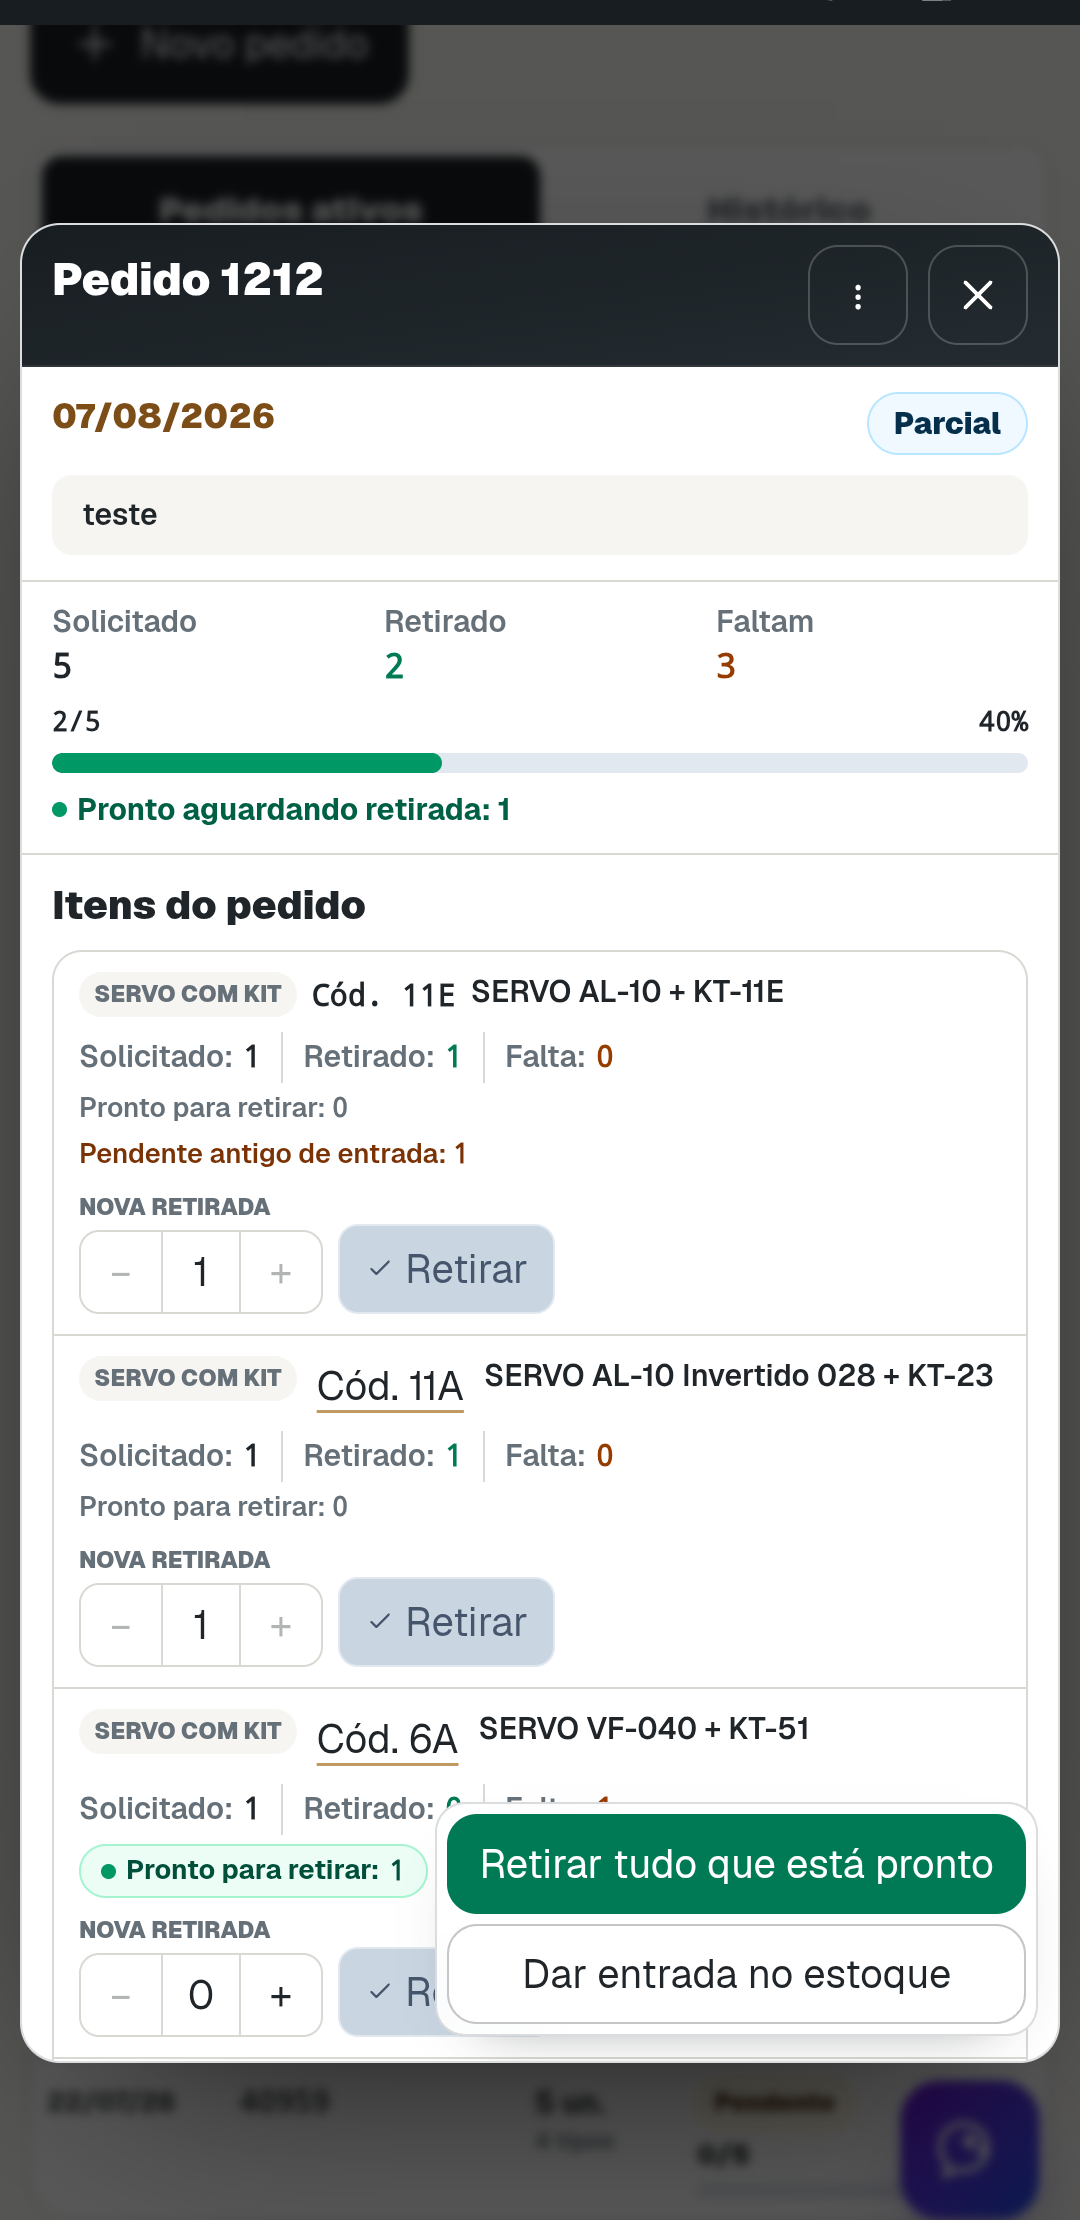
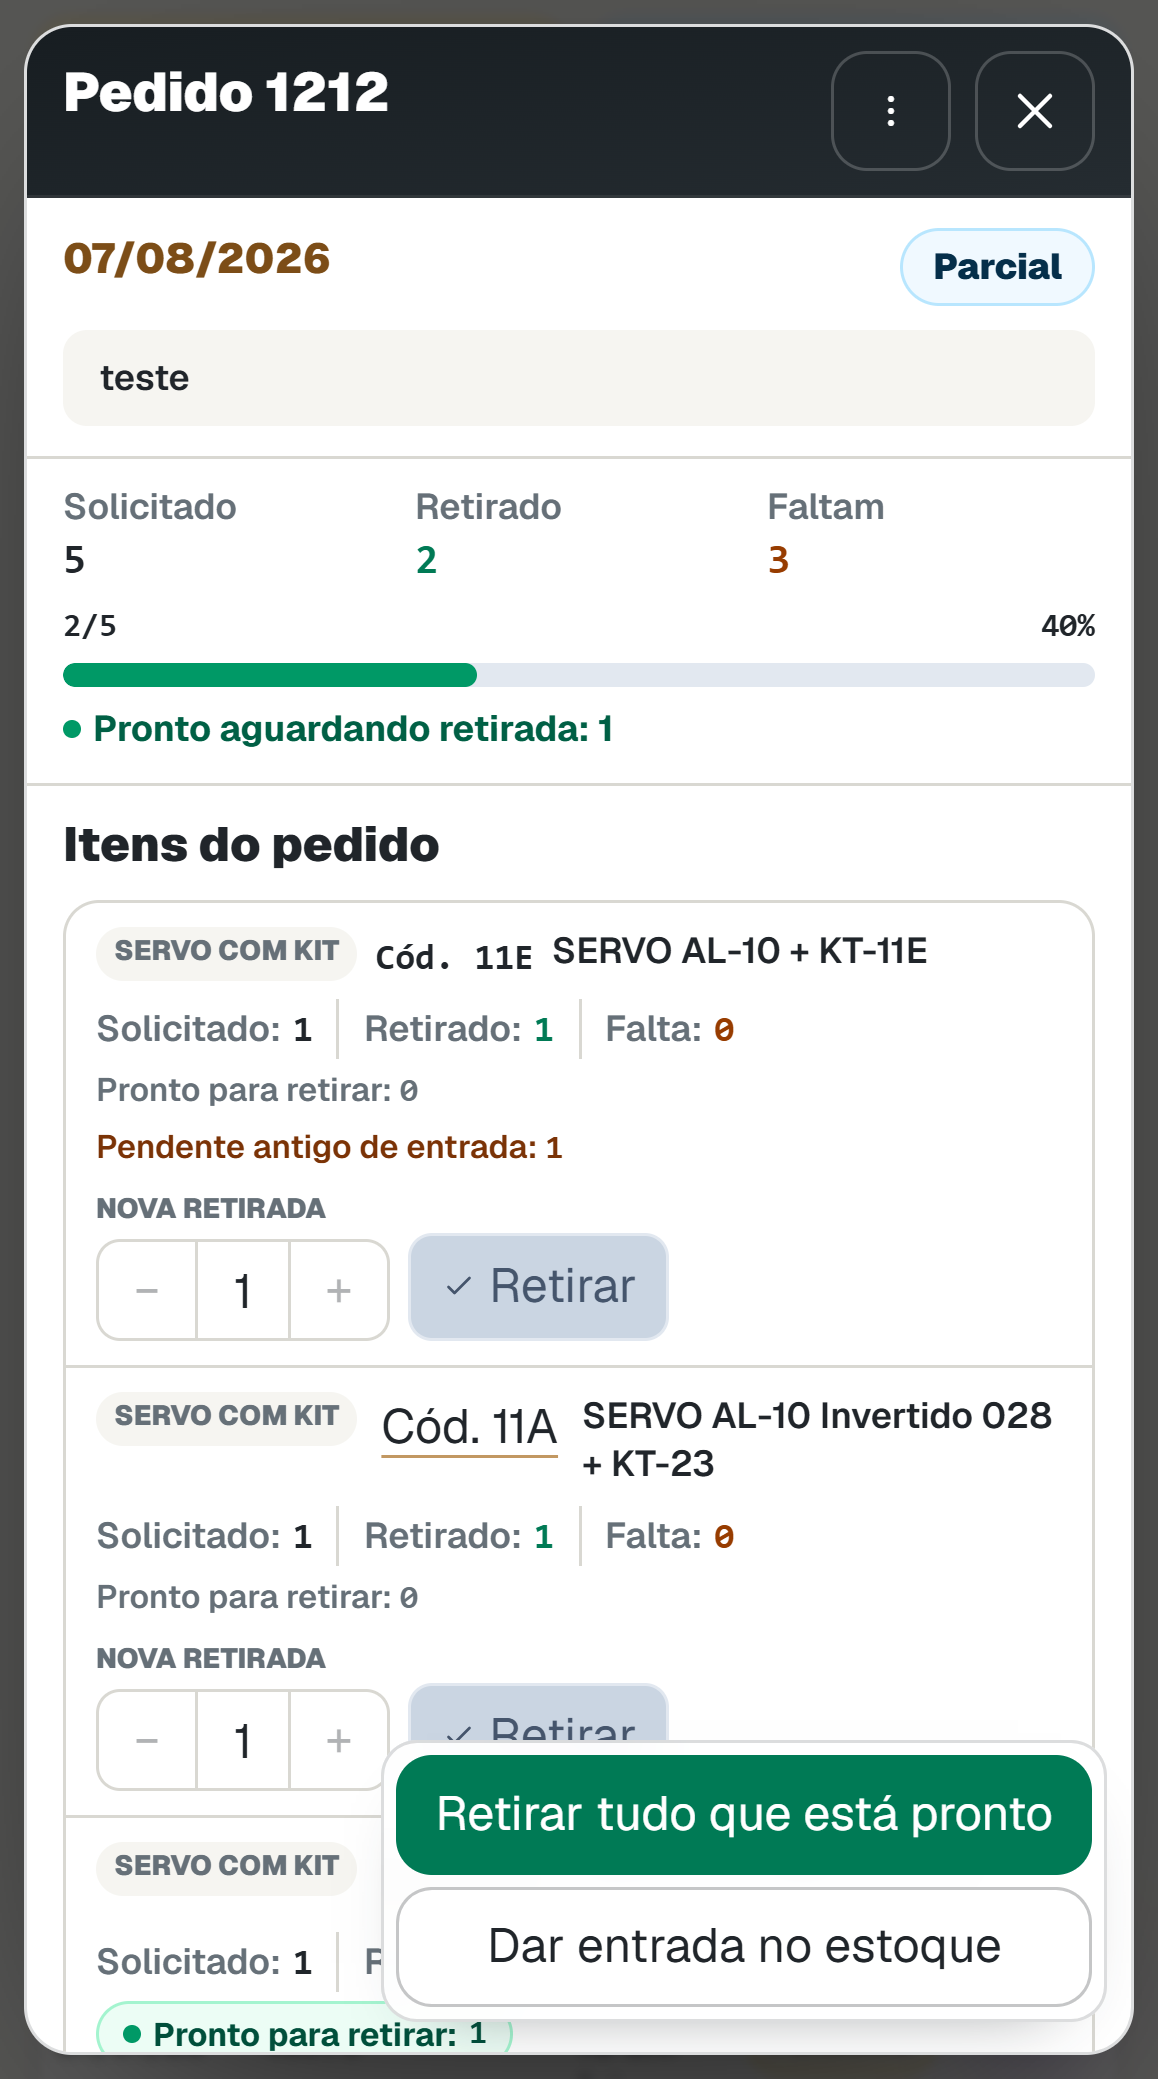
feat: use high resolution presentation screenshots

diff --git a/app/(public)/apresentacao/page.tsx b/app/(public)/apresentacao/page.tsx
@@ -56,16 +56,16 @@ export default function PresentationPage() {
             <DeviceFrameDesktop
               src="/presentation/screenshots/inventory/presentation-hero-inventory-desktop.png"
               alt="Tela de Estoque com resumo, pesquisa e categorias do catálogo"
-              width={1103}
-              height={610}
+              width={4059}
+              height={2079}
               priority
               className="hero-desktop"
             />
             <DeviceFrameMobile
               src="/presentation/screenshots/assistant/presentation-assistant-context-mobile.png"
               alt="Assistente NK respondendo uma consulta contextual sobre o modelo MBF-025"
-              width={1080}
-              height={2220}
+              width={1170}
+              height={2532}
               priority
               className="hero-mobile"
             />
@@ -111,14 +111,14 @@ export default function PresentationPage() {
             <DeviceFrameMobile
               src="/presentation/screenshots/assistant/presentation-assistant-context-mobile.png"
               alt="Conversa contextual da Assistente NK sobre saldo de Servos com kit"
-              width={1080}
-              height={2220}
+              width={1170}
+              height={2532}
             />
             <DeviceFrameMobile
               src="/presentation/screenshots/assistant/presentation-assistant-statistics-mobile.png"
               alt="Assistente NK respondendo uma consulta estatística com ranking oficial"
-              width={1080}
-              height={2220}
+              width={1170}
+              height={2532}
               className="assistant-frame-secondary"
             />
           </div>
@@ -158,14 +158,14 @@ export default function PresentationPage() {
             <DeviceFrameMobile
               src="/presentation/screenshots/photo-order/presentation-photo-order-upload-mobile.png"
               alt="Assistente NK analisando uma foto de Pedido selecionada na galeria"
-              width={1080}
-              height={2220}
+              width={1170}
+              height={2532}
             />
             <DeviceFrameMobile
               src="/presentation/screenshots/photo-order/presentation-photo-order-preview-mobile.png"
               alt="Prévia de Pedido com itens identificados e indicação de revisão"
-              width={1080}
-              height={2220}
+              width={1170}
+              height={2532}
             />
             <DeviceFrameMobile
               src="/presentation/screenshots/photo-order/presentation-photo-order-confirm-mobile.png"
@@ -205,8 +205,8 @@ export default function PresentationPage() {
           <DeviceFrameDesktop
             src="/presentation/screenshots/inventory/presentation-hero-inventory-desktop.png"
             alt="Visão geral do Estoque com totais, pesquisa e categorias físicas"
-            width={1103}
-            height={610}
+            width={4059}
+            height={2079}
           />
         </div>
       </section>
@@ -217,14 +217,22 @@ export default function PresentationPage() {
             <DeviceFrameMobile
               src="/presentation/screenshots/orders/presentation-orders-flow-mobile.png"
               alt="Detalhe mobile de um Pedido com quantidades solicitadas, retiradas e prontas"
-              width={1080}
-              height={2220}
+              width={1158}
+              height={2079}
+              className="orders-detail-mobile"
+            />
+            <DeviceFrameDesktop
+              src="/presentation/screenshots/orders/presentation-order-detail-desktop.png"
+              alt="Detalhe de um Pedido com quantidades solicitadas, retiradas e prontas"
+              width={4059}
+              height={2079}
+              className="orders-detail-desktop"
             />
             <DeviceFrameMobile
               src="/presentation/screenshots/safisa/presentation-safisa-portal-mobile.png"
               alt="Portal do fornecedor mostrando prontidão por item do Pedido"
-              width={1080}
-              height={2220}
+              width={1734}
+              height={3120}
               className="orders-safisa-frame"
             />
           </div>
@@ -258,12 +266,22 @@ export default function PresentationPage() {
               <li>Comparação entre períodos baseada no histórico real.</li>
             </ul>
           </div>
-          <DeviceFrameMobile
-            src="/presentation/screenshots/statistics/presentation-statistics-ranking-mobile.png"
-            alt="Ranking mobile de itens mais movimentados no período"
-            width={1080}
-            height={2220}
-          />
+          <div className="statistics-visuals">
+            <DeviceFrameMobile
+              src="/presentation/screenshots/statistics/presentation-statistics-ranking-mobile.png"
+              alt="Ranking mobile de itens mais movimentados no período"
+              width={1080}
+              height={2220}
+              className="statistics-ranking-mobile"
+            />
+            <DeviceFrameDesktop
+              src="/presentation/screenshots/statistics/presentation-statistics-dashboard-desktop.png"
+              alt="Painel de Estatísticas com resumo e gráficos do período"
+              width={4059}
+              height={2079}
+              className="statistics-dashboard-desktop"
+            />
+          </div>
         </div>
       </section>
 

diff --git a/app/(public)/public-site.css b/app/(public)/public-site.css
@@ -133,8 +133,10 @@
 .orders-visuals { position: relative; min-height: 41rem; }
 .orders-visuals .device-mobile { position: absolute; top: 0; left: 3%; width: min(62vw, 17rem); transform: rotate(-2.5deg); }
 .orders-visuals .orders-safisa-frame { top: 5rem; right: 0; left: auto; width: min(55vw, 15rem); transform: rotate(3deg); }
+.orders-detail-desktop { display: none; }
 .statistics-section { background: radial-gradient(circle at 80% 12%, rgba(105,30,210,.16), transparent 27rem), var(--public-navy); }
 .statistics-section .device-mobile { width: min(78vw, 19rem); margin-inline: auto; transform: rotate(1.5deg); }
+.statistics-dashboard-desktop { display: none; }
 .metric-strip { display: grid; grid-template-columns: repeat(3, 1fr); gap: .65rem; margin-top: 1.5rem; }
 .metric-strip span { display: grid; padding: .8rem; border: 1px solid rgba(255,255,255,.14); border-radius: .85rem; color: #aeb8bd; font-size: .68rem; text-align: center; }
 .metric-strip strong { color: white; font-size: 1.3rem; }
@@ -186,6 +188,11 @@
   .split-section-assistant .section-copy { order: 1; }
   .split-section-assistant .assistant-visual-stack { order: 2; }
   .orders-visuals { min-height: 47rem; }
+  .orders-visuals .orders-detail-mobile { display: none; }
+  .orders-visuals .orders-detail-desktop { position: absolute; top: 1.5rem; left: 0; display: block; width: min(100%, 38rem); transform: rotate(-1deg); }
+  .orders-visuals .orders-safisa-frame { top: 9rem; }
+  .statistics-ranking-mobile { display: none; }
+  .statistics-dashboard-desktop { display: block; width: 100%; transform: rotate(1deg); }
 }
 
 @media (min-width: 64rem) {
